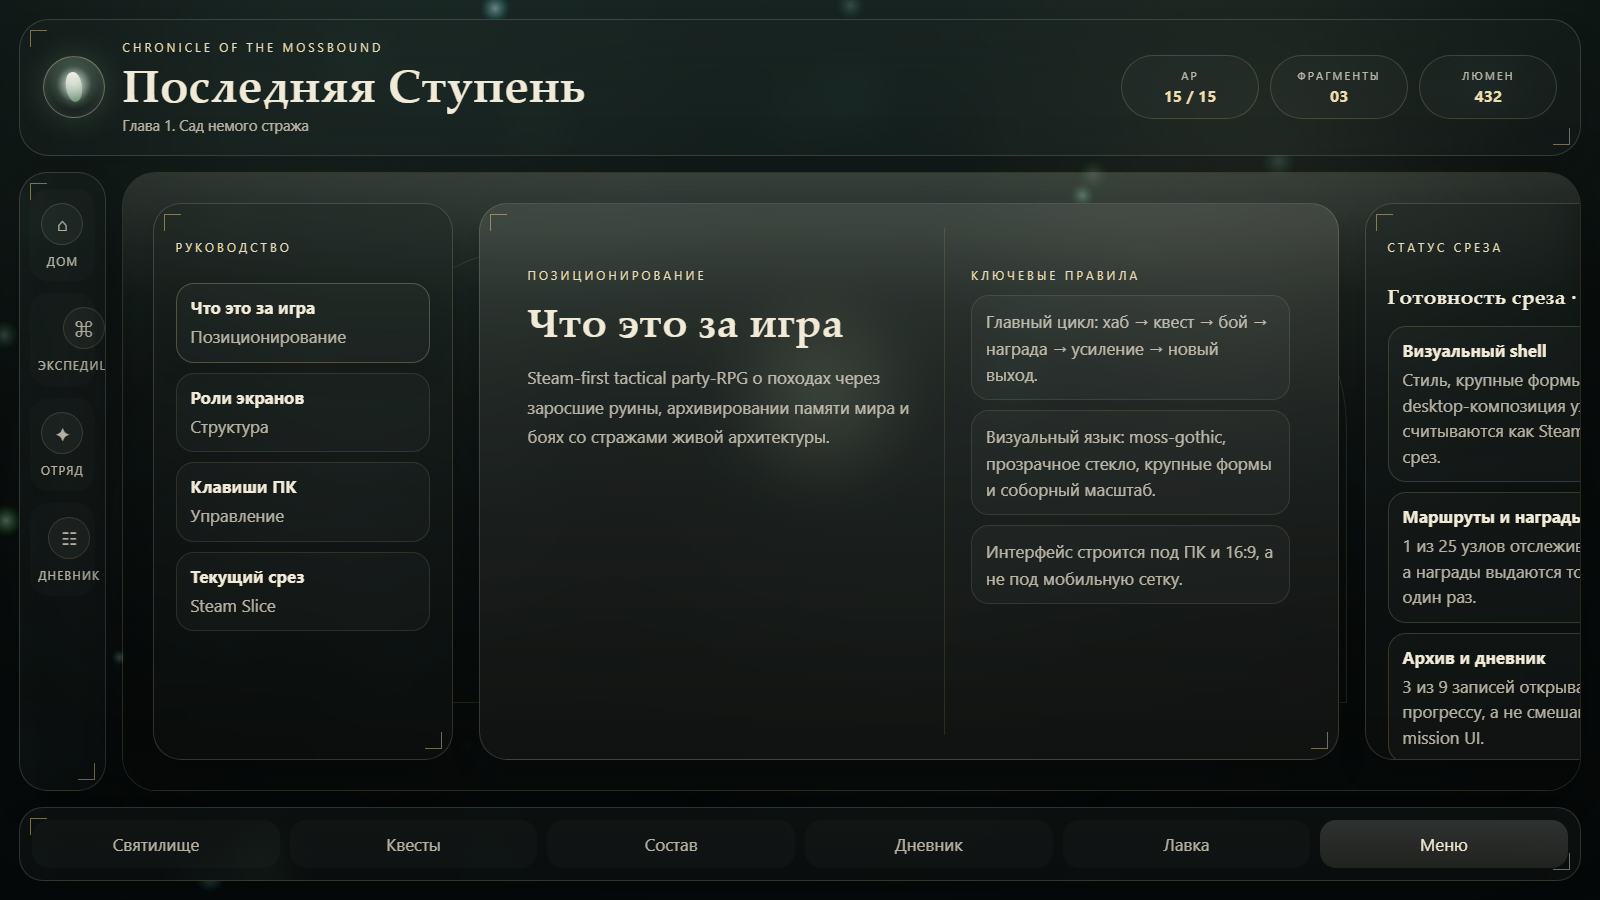
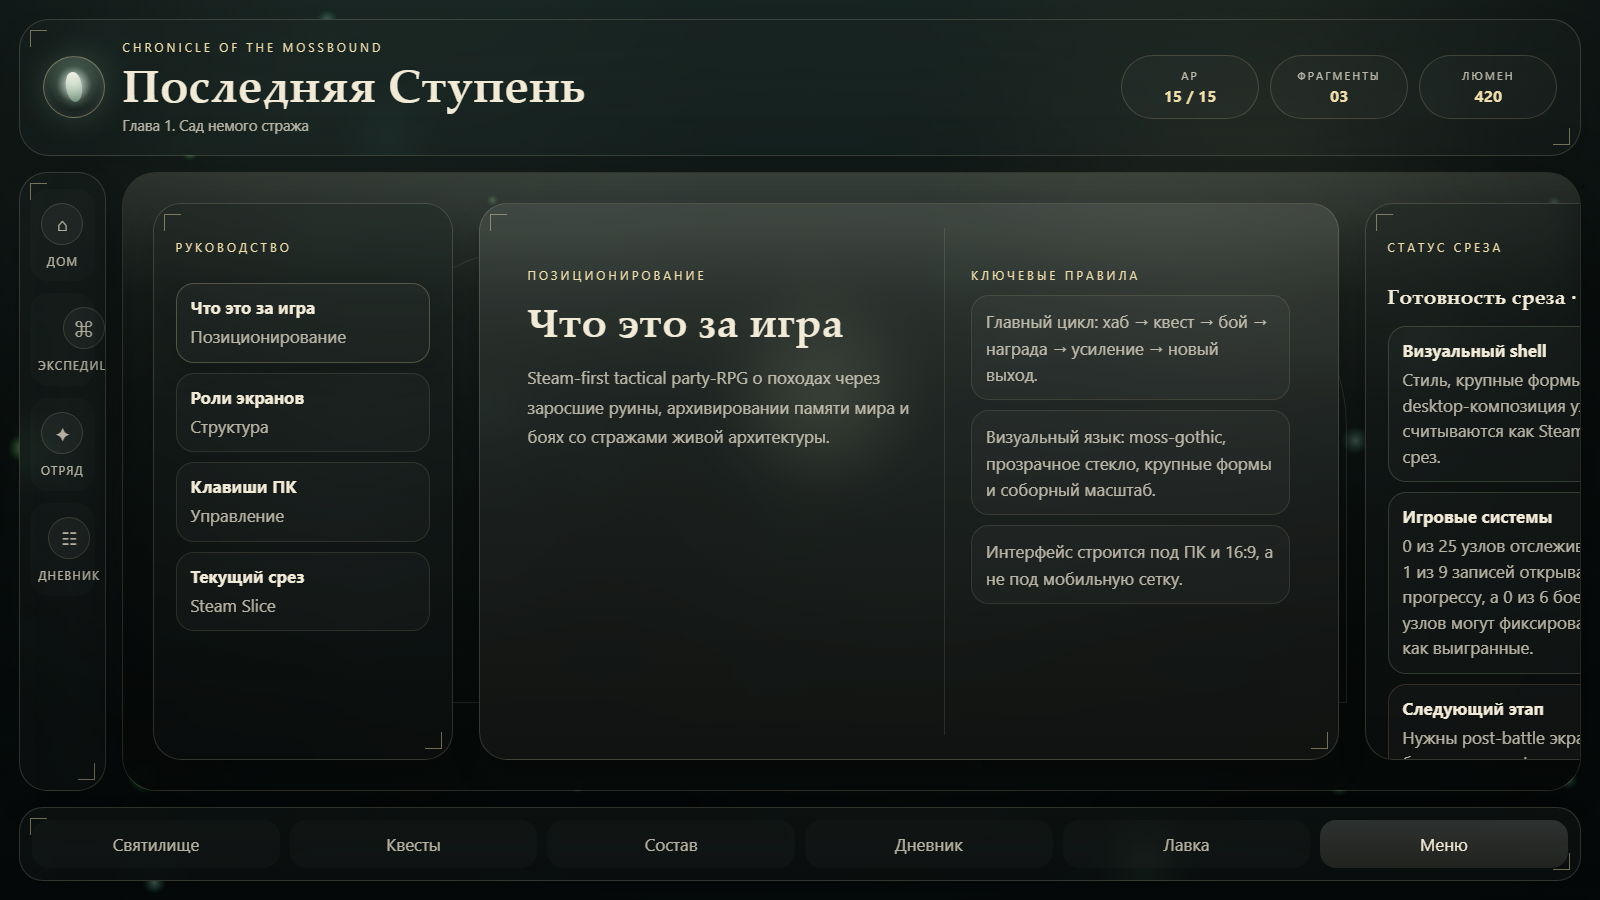
Add battle results screen and guide updates

diff --git a/src/main.js b/src/main.js
@@ -932,6 +932,17 @@
   const battleSkillGrid = document.getElementById("battle-skill-grid");
   const battleCommit = document.getElementById("battle-commit");
   const battleBack = document.getElementById("battle-back");
+  const resultKicker = document.getElementById("result-kicker");
+  const resultTitle = document.getElementById("result-title");
+  const resultSubtitle = document.getElementById("result-subtitle");
+  const resultStatusPill = document.getElementById("result-status-pill");
+  const resultSummary = document.getElementById("result-summary");
+  const resultRewardList = document.getElementById("result-reward-list");
+  const resultNoteList = document.getElementById("result-note-list");
+  const resultNextTitle = document.getElementById("result-next-title");
+  const resultNextCopy = document.getElementById("result-next-copy");
+  const resultPrimary = document.getElementById("result-primary");
+  const resultSecondary = document.getElementById("result-secondary");
 
   const state = {
     activeScreen: "home",
@@ -1246,27 +1257,12 @@
           tone: "good",
         },
         {
-          title: "Маршруты и награды",
-          body: `${clearedNodes} из ${totalNodes} узлов отслеживаются, а награды выдаются только один раз.`,
+          title: "Игровые системы",
+          body: `${clearedNodes} из ${totalNodes} узлов отслеживаются, ${unlockedJournalEntries} из ${totalJournalEntries} записей открываются по прогрессу, а ${resolvedCombatNodes} из ${totalCombatNodes} боевых узлов могут фиксироваться как выигранные.`,
           tone: "good",
         },
         {
-          title: "Архив и дневник",
-          body: `${unlockedJournalEntries} из ${totalJournalEntries} записей открываются по прогрессу, а не смешаны с mission UI.`,
-          tone: "mid",
-        },
-        {
-          title: "Боевые encounter'ы",
-          body: `${resolvedCombatNodes} из ${totalCombatNodes} боевых узлов уже могут фиксироваться как выигранные.`,
-          tone: "mid",
-        },
-        {
-          title: "Meta-прогрессия",
-          body: "Сохранение ресурсов, экранов, маршрутов и архива работает, но усиления героев ещё не привязаны к результатам боёв.",
-          tone: "mid",
-        },
-        {
-          title: "Чего ещё не хватает",
+          title: "Следующий этап",
           body: "Нужны post-battle экран, больше encounter-вариантов, развитие героев и более глубокая экономическая петля.",
           tone: "low",
         },

diff --git a/index.html b/index.html
@@ -239,6 +239,49 @@
         </div>
       </section>
 
+      <section class="screen" data-screen="results">
+        <div class="screen-scape results-scape" aria-hidden="true">
+          <div class="results-arch"></div>
+          <div class="results-beam"></div>
+          <div class="results-water"></div>
+        </div>
+
+        <div class="results-layout">
+          <aside class="results-summary ornate-panel">
+            <p class="eyebrow" id="result-kicker">Итог экспедиции</p>
+            <h2 id="result-title">Узел подавлен</h2>
+            <p class="results-subtitle" id="result-subtitle">Хроника руин · Стычка</p>
+            <div class="result-status-pill" id="result-status-pill">Победа</div>
+            <p class="results-summary-copy" id="result-summary">
+              Отряд удержал темп, подавил угрозу и подготовил маршрут к следующему узлу.
+            </p>
+          </aside>
+
+          <section class="results-report ornate-panel">
+            <div class="results-page">
+              <p class="eyebrow">Награда</p>
+              <div class="result-reward-list" id="result-reward-list"></div>
+            </div>
+            <div class="results-page results-page-secondary">
+              <p class="eyebrow">Разбор выхода</p>
+              <div class="result-note-list" id="result-note-list"></div>
+            </div>
+          </section>
+
+          <aside class="results-actions ornate-panel">
+            <p class="eyebrow">Следующий шаг</p>
+            <h3 id="result-next-title">Забрать награду</h3>
+            <p id="result-next-copy">
+              Подтвердите результат, чтобы вернуть отряд в маршрут и сохранить прогресс главы.
+            </p>
+            <div class="results-button-stack">
+              <button class="primary-button" id="result-primary">Забрать награду и к маршруту</button>
+              <button class="secondary-button" id="result-secondary">Открыть дневник</button>
+            </div>
+          </aside>
+        </div>
+      </section>
+
       <section class="screen" data-screen="party">
         <div class="screen-scape party-scape" aria-hidden="true">
           <div class="party-window party-window-left"></div>

diff --git a/styles.css b/styles.css
@@ -811,7 +811,7 @@ button {
 
 .quest-layout {
   display: grid;
-  grid-template-columns: minmax(280px, 330px) 1fr;
+  grid-template-columns: minmax(320px, 380px) 1fr;
   gap: 22px;
 }
 
@@ -3246,7 +3246,7 @@ button {
   }
 
   .quest-layout {
-    grid-template-columns: minmax(330px, 380px) 1fr;
+    grid-template-columns: minmax(380px, 430px) 1fr;
   }
 
   .party-layout {
@@ -3284,7 +3284,7 @@ button {
   }
 
   .quest-layout {
-    grid-template-columns: minmax(360px, 420px) 1fr;
+    grid-template-columns: minmax(400px, 460px) 1fr;
   }
 
   .party-layout {

diff --git a/docs/game-guide.md b/docs/game-guide.md
@@ -1,5 +1,14 @@
 # Последняя Ступень: игровое руководство
 
+Руководство теперь доступно и внутри игры:
+- `Меню` → `Открыть руководство`
+- клавиша `8` на ПК
+
+Текущая структура экранов:
+- `Экспедиции` — маршрут, цель, награда, рекомендация и вход в бой
+- `Дневник` — архив лора, атлас и бестиарий без смешения с mission UI
+- `Руководство` — правила игры, роли экранов и оценка готовности vertical slice
+
 ## Позиционирование
 
 `Последняя Ступень` — Steam-first tactical party-RPG о походах через заросшие руины, архивировании памяти мира и боях со стражами живой архитектуры.
